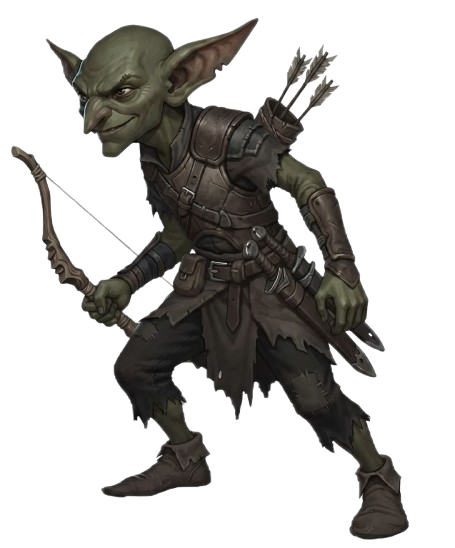
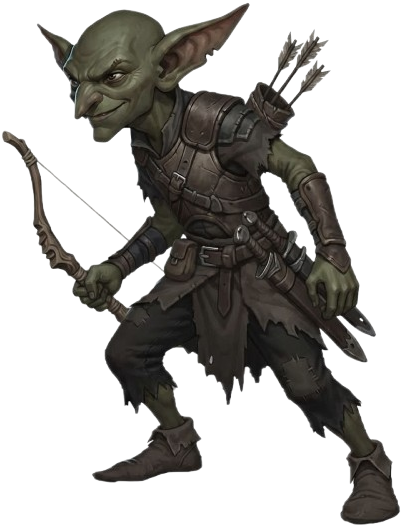
vampire-rpg: audit character sizes, sync feet to one ground line, walk-up now physically steps forward
Sizing audit:
- Fixed the real root cause of enemies floating above the player's own
  ground line: .enemy-cluster anchored its child via a flex margin
  percentage, which CSS always resolves against the containing block's
  WIDTH even for margin-bottom - so the enemy's feet sat at 32% of the
  (much wider) cluster width above the floor, not 8% of the stage's
  height like the player. The two only coincidentally lined up at one
  aspect ratio. Now both use the same bottom:8% basis.
- Cropped real transparent padding out of goblin-archer.png (17px top/
  8px bottom), goblin-sneak.png (21px/21px), and goblin-warrior.png
  (10px/10px) - all three were silently rendering smaller than their
  stated height and floating their feet above the ground line.
- Re-audited every character's true rendered height via a pixel-alpha
  content-bounding-box scan (not eyeballed) against the player's own
  ~42.3cqh true height: Skeleton/Zombie brought up toward human/Vampire
  scale, Hobgoblin Warrior/Archer set as bulkier-than-base-goblin tier,
  Goblin Sneak brought down to the smallest goblin-humanoid tier.
- Removed the now-fully-dead [data-count="2"/"3"] enemy-cluster CSS
  (52 lines) - encounters are always 1 enemy now, so those selectors
  could never match.

Walk-up flourish now physically steps forward, not just cycling art in
place - and self-heals across render()'s full DOM rebuilds by writing
an inline transform on a freshly re-queried element every single
[…]

Changed region(s): [[0.0, 0.0, 1.0, 1.0]]

diff --git a/prototypes/vampire-rpg/style.css b/prototypes/vampire-rpg/style.css
@@ -476,74 +476,54 @@ button { font-family: inherit; }
     align-items: center;
     transition: filter 200ms ease, opacity 400ms ease;
 }
-.combatant.player { left: 15%; }
+.combatant.player {
+    left: 15%;
+    /* The melee walk-up flourish's forward-and-back step (see
+       animatePlayerStep in game.js) writes a plain inline
+       transform:translateX(...cqw) directly, re-resolved every
+       requestAnimationFrame tick rather than as a CSS class+transition
+       - render() fully tears down and rebuilds this element on any
+       state change, which broke a CSS transition two different ways
+       (reported live as "teleporting"): no "before" frame to animate
+       from if the element was rebuilt right as the transition started,
+       and an abandoned in-flight transition if it was rebuilt again
+       mid-animation. A per-frame JS write just re-applies wherever the
+       animation currently is to whatever element exists that frame, so
+       neither case can desync it. Nothing is ever left shifted between
+       turns either way - every attack starts and ends at this same
+       left:15% spot (see animatePlayerStep's own comment). */
+}
 
+/* Single enemy slot for now (1-on-1 combat, per feedback) - right-aligned
+   in its own column, anchored at the SAME bottom offset (8%) as
+   .combatant.player above, resolved against the same .stage height in
+   both cases, so feet land on the same ground line regardless of the
+   stage's own aspect ratio. The previous version instead anchored the
+   enemy via a flex child's own margin-bottom% - CSS always resolves a
+   margin percentage against the containing block's WIDTH, even for
+   margin-bottom, so that put the enemy's feet at 32% of the (much wider)
+   cluster width above the floor rather than 8% of the stage's height
+   like the player - the two only coincidentally lined up at one
+   specific aspect ratio, and visibly diverged (reported live - a
+   screenshot showed the enemy floating well above the player's own
+   ground line) at the session's actual widescreen aspect ratio. */
 .enemy-cluster {
     position: absolute;
     right: 11%;
-    bottom: 0;
+    bottom: 8%;
     display: flex;
     align-items: flex-end;
     justify-content: flex-end;
-    gap: 2%;
-    height: 100%;
     width: 46%;
 }
-.enemy-cluster .combatant {
-    position: relative;
-    bottom: auto;
-    left: auto;
-    margin-bottom: 32%;
-}
-.enemy-cluster[data-count="1"] .combatant { margin-bottom: 32%; }
-/* Cluster shrink is expressed as height (not transform: scale), because the
-   idle-bob animation below also animates `transform` on .figure - a CSS
-   animation always wins over a plain declaration for the same property
-   regardless of selector specificity, so a static transform:scale() here
-   would simply be ignored once idle-bob is running. Height composes fine
-   with an animated transform sitting on top of it. */
-.enemy-cluster[data-count="2"] .combatant:nth-child(1) { margin-bottom: 32%; }
-.enemy-cluster[data-count="2"] .combatant:nth-child(2) { margin-bottom: 34%; }
-.enemy-cluster[data-count="3"] .combatant:nth-child(1) { margin-bottom: 32%; }
-.enemy-cluster[data-count="3"] .combatant:nth-child(2) { margin-bottom: 30%; }
-.enemy-cluster[data-count="3"] .combatant:nth-child(3) { margin-bottom: 30%; }
+.enemy-cluster .combatant { position: relative; left: auto; }
 .enemy-cluster .combatant .figure { transform-origin: 50% 100%; }
-.enemy-cluster[data-count="2"] .combatant .figure.char-skeleton { height: 38.5cqh; }
-/* At this height the Skeleton (tallest figure in the roster) renders wide
-   enough that, centered in its column, it overlaps the player Vampire on
-   its left (confirmed via getBoundingClientRect - a real overlap, not
-   "standing close" as elsewhere in this file). margin-left has no effect
-   here since the combatant column is exactly shrink-wrapped around the
-   figure with no centering slack to eat into, and a plain transform on
-   the figure itself would be silently overridden by its own idle-bob
-   keyframe animation (same reasoning as the cluster-shrink note above) -
-   so the nudge goes on the combatant wrapper instead, which has neither
-   issue. Only needed in the 2-enemy cluster (its only 3-enemy encounter
-   already has ~36-38px of clearance on both sides with no fix). */
-.enemy-cluster[data-count="2"] .combatant:has(.char-skeleton) { transform: translateX(7cqw); }
-.enemy-cluster[data-count="2"] .combatant .figure.char-goblin-grunt { height: 20.6cqh; }
-.enemy-cluster[data-count="2"] .combatant .figure.char-giant-rat { height: 12.9cqh; }
-.enemy-cluster[data-count="3"] .combatant .figure.char-skeleton { height: 32.3cqh; }
-.enemy-cluster[data-count="3"] .combatant .figure.char-goblin-grunt { height: 17.3cqh; }
-.enemy-cluster[data-count="3"] .combatant .figure.char-giant-rat { height: 10.8cqh; }
 /* Skeleton's defeated pose is a collapsed, wide illustration (aspect ratio
    ~2.05, vs ~0.87 standing) - shown at the standing height it would render
-   about 2.3x wider than upright and overlap its neighbors, so it gets a
-   shorter height here (same ratio applied to each context above) to keep
-   roughly the same on-screen footprint instead. */
-.combatant.dead.has-defeated-pose .figure.char-skeleton { height: 18.9cqh; }
-.enemy-cluster[data-count="2"] .combatant.dead.has-defeated-pose .figure.char-skeleton { height: 16.2cqh; }
-.enemy-cluster[data-count="3"] .combatant.dead.has-defeated-pose .figure.char-skeleton { height: 13.6cqh; }
-.enemy-cluster[data-count="2"] .combatant .figure.char-hobgoblin-warrior { height: 25.8cqh; }
-.enemy-cluster[data-count="2"] .combatant .figure.char-zombie { height: 27.5cqh; }
-.enemy-cluster[data-count="2"] .combatant .figure.char-hobgoblin-archer { height: 24.1cqh; }
-.enemy-cluster[data-count="2"] .combatant .figure.char-goblin-shaman { height: 19.8cqh; }
-.enemy-cluster[data-count="2"] .combatant .figure.char-goblin-sneak { height: 18.9cqh; }
-.enemy-cluster[data-count="3"] .combatant .figure.char-hobgoblin-warrior { height: 21.6cqh; }
-.enemy-cluster[data-count="3"] .combatant .figure.char-zombie { height: 23cqh; }
-.enemy-cluster[data-count="3"] .combatant .figure.char-hobgoblin-archer { height: 20.2cqh; }
-.enemy-cluster[data-count="3"] .combatant .figure.char-goblin-shaman { height: 16.6cqh; }
-.enemy-cluster[data-count="3"] .combatant .figure.char-goblin-sneak { height: 15.8cqh; }
+   about 2.3x wider than upright, so it gets a shorter height here (same
+   ratio as standing-to-defeated below) to keep roughly the same on-screen
+   footprint instead. */
+.combatant.dead.has-defeated-pose .figure.char-skeleton { height: 17.3cqh; }
 
 .combatant.dead { opacity: 0.32; filter: grayscale(0.9) brightness(0.7); }
 /* A dedicated defeated-pose illustration already tells "this is dead" on
@@ -691,15 +671,31 @@ button { font-family: inherit; }
    pulling them up off the ground. */
 .figure-scale { display: flex; align-items: flex-end; justify-content: center; }
 .combatant.player .figure-scale { transform: scale(0.92); transform-origin: bottom center; }
-/* Relative in-world scale between characters - tallest to shortest. */
-.figure.char-skeleton { height: 44.9cqh; }
+/* Relative in-world scale between characters - tallest to shortest.
+   Re-audited together with the player's own true rendered height (the
+   base .figure rule below is 46cqh, scaled by .figure-scale's 0.92 above
+   -> ~42.3cqh true) via a pixel-alpha content-bounding-box scan of each
+   character's actual art (same technique as VAMPIRE_POSE_HEIGHT's own
+   comments in game.js), not eyeballed - most of these images are
+   cropped edge-to-edge already so their cqh value IS their true height,
+   but goblin-archer/goblin-sneak/goblin-warrior carried real transparent
+   padding (measured 3-6% of canvas height on top and bottom) that was
+   silently shrinking them below their stated height and floating their
+   feet above the ground line - cropped out at the source instead of
+   compensated here (see assets/*.png), so all eight numbers below are
+   now directly comparable "true" heights. Skeleton and Zombie are
+   human-sized undead, so sit close to the Vampire's own ~42.3cqh;
+   Hobgoblin Warrior/Archer are bulkier elite goblins, taller than the
+   base Goblin Grunt tier; Goblin Shaman/Sneak sit at or under Grunt;
+   Giant Rat is the smallest, a low quadruped. */
+.figure.char-skeleton { height: 41cqh; }
+.figure.char-zombie { height: 39cqh; }
+.figure.char-hobgoblin-warrior { height: 31cqh; }
+.figure.char-hobgoblin-archer { height: 27cqh; }
 .figure.char-goblin-grunt { height: 24cqh; }
-.figure.char-giant-rat { height: 15cqh; }
-.figure.char-hobgoblin-warrior { height: 30cqh; }
-.figure.char-zombie { height: 32cqh; }
-.figure.char-hobgoblin-archer { height: 28cqh; }
 .figure.char-goblin-shaman { height: 23cqh; }
-.figure.char-goblin-sneak { height: 22cqh; }
+.figure.char-goblin-sneak { height: 20cqh; }
+.figure.char-giant-rat { height: 15cqh; }
 
 /* The whole roster has real art now - Goblin Sneak and Goblin Warrior
    (characterId 'hobgoblin-warrior') were the last two tinted

diff --git a/prototypes/vampire-rpg/game.js b/prototypes/vampire-rpg/game.js
@@ -324,12 +324,18 @@
         'skeleton': 'assets/skeleton.png',
         'giant-rat': 'assets/giant-rat.png',
         'zombie': 'assets/zombie.png',
-        'hobgoblin-archer': 'assets/goblin-archer.png',
+        // ?v=2 on these three specifically - their source PNGs got
+        // cropped in place (real transparent padding removed, see the
+        // sizing-audit comment on .figure.char-* in style.css) without a
+        // filename change, so a browser that already cached the old
+        // (padded) bytes under this same path needs a new query string
+        // to actually re-fetch.
+        'hobgoblin-archer': 'assets/goblin-archer.png?v=2',
         'goblin-shaman': 'assets/goblin-shaman.png',
-        'goblin-sneak': 'assets/goblin-sneak.png',
+        'goblin-sneak': 'assets/goblin-sneak.png?v=2',
         // Display name "Goblin Warrior" (see characters.source.js) - a
         // goblin in heavy armor, not a distinct hobgoblin species.
-        'hobgoblin-warrior': 'assets/goblin-warrior.png',
+        'hobgoblin-warrior': 'assets/goblin-warrior.png?v=2',
     };
     // Attack/hit/defeated pose sets, for every enemy - the whole roster now
     // has real art, no placeholders left. Mirrors VAMPIRE_POSES/
@@ -366,7 +372,7 @@
             defeated: 'assets/zombie-defeated.png',
         },
         'hobgoblin-archer': {
-            idle: 'assets/goblin-archer.png',
+            idle: 'assets/goblin-archer.png?v=2',
             attack: ['assets/goblin-archer-attack-1.png', 'assets/goblin-archer-attack-2.png'],
             hit: 'assets/goblin-archer-hit.png',
             defeated: 'assets/goblin-archer-defeated.png',
@@ -385,7 +391,7 @@
             defeated: 'assets/goblin-shaman-defeated.png',
         },
         'goblin-sneak': {
-            idle: 'assets/goblin-sneak.png',
+            idle: 'assets/goblin-sneak.png?v=2',
             attack: 'assets/goblin-sneak-attack.png',
             // Slip Away (self-target) gets its own "vanish into shadow"
             // pose instead of the attack lunge - see chooseEnemyAction.
@@ -394,7 +400,7 @@
             defeated: 'assets/goblin-sneak-defeated.png',
         },
         'hobgoblin-warrior': {
-            idle: 'assets/goblin-warrior.png',
+            idle: 'assets/goblin-warrior.png?v=2',
             attack: ['assets/goblin-warrior-attack-1.png', 'assets/goblin-warrior-attack-2.png'],
             hit: 'assets/goblin-warrior-hit.png',
             defeated: 'assets/goblin-warrior-defeated.png',
@@ -995,6 +1001,45 @@
         return totalMs;
     }
 
+    // Animates the player's .combatant stepping forward (toward the
+    // enemy) or back (returning to its base spot) for the melee walk-up
+    // flourish below, by interpolating an inline transform directly via
+    // requestAnimationFrame - re-resolving the element fresh on EVERY
+    // frame instead of holding one reference for the whole animation.
+    // render() fully tears down and rebuilds the combatant DOM on any
+    // state change (see its own comments); a plain CSS class+transition
+    // toggled once and left to run doesn't survive that. Two ways it
+    // broke, both reported live: render() firing between the class being
+    // added and the next paint hands the transition a brand new element
+    // with no "before" frame to animate from, so it jumps straight to
+    // the end position instead of visibly walking there ("teleporting
+    // forward then walking instead of walking from its original spot");
+    // render() firing again mid-transition abandons whatever the CSS
+    // engine had in flight, snapping to whatever the fresh element's
+    // static (untransitioned) style happens to resolve to. Re-querying
+    // the element every single frame sidesteps both - if render() swaps
+    // it out between two frames, the very next frame just keeps writing
+    // the current interpolated position onto the new element, not
+    // whatever that element's own default style would have been.
+    function animatePlayerStep(forward, durationMs, onDone) {
+        const startCqw = forward ? 0 : 20;
+        const endCqw = forward ? 20 : 0;
+        const startTime = performance.now();
+        function tick(now) {
+            const el = findCombatantEl('player', 0);
+            const t = Math.min(1, (now - startTime) / durationMs);
+            const eased = t < 0.5 ? 4 * t * t * t : 1 - Math.pow(-2 * t + 2, 3) / 2; // easeInOutCubic
+            const cqw = startCqw + (endCqw - startCqw) * eased;
+            if (el) el.style.transform = cqw ? 'translateX(' + cqw.toFixed(2) + 'cqw)' : '';
+            if (t < 1) {
+                requestAnimationFrame(tick);
+            } else if (onDone) {
+                onDone();
+            }
+        }
+        requestAnimationFrame(tick);
+    }
+
     function playPlayerAction(skillIndex, targetSlot) {
         const unit = vampireUnit();
         const character = characterForUnit(unit);
@@ -1036,14 +1081,30 @@
             // cosmetic (no range gate any more, every skill can already
             // hit any alive enemy), just sells "closing the gap" for a
             // Melee-tagged hit specifically. Ranged/self skills skip
-            // straight to their own windup below.
+            // straight to their own windup below. The player's own
+            // .combatant physically steps forward while this plays (see
+            // animatePlayerStep above) and steps back again once the
+            // strike lands - a temporary, timer-driven, self-resetting
+            // transform, not the old persistent --engage-x position
+            // (removed per feedback) - nothing is ever left shifted
+            // between turns.
             const walkFrames = playerWalkFrames();
             const walkStepMs = walkFrames.length > 3 ? 200 : 260;
-            const walkTotalMs = playVampirePoseSequence(walkFrames, [], { stepMs: walkStepMs, holdMs: 300 });
+            // Mirrors playVampirePoseSequence's own totalMs formula
+            // below (frames.length ? (frames.length-1)*stepMs+holdMs :
+            // holdMs) - needed here, ahead of that call, so the walk and
+            // the physical step start together and take the same total
+            // time. Keep the two in sync if either formula ever changes.
+            const walkTotalMs = walkFrames.length ? (walkFrames.length - 1) * walkStepMs + 300 : 300;
+            animatePlayerStep(true, walkTotalMs);
+            playVampirePoseSequence(walkFrames, [], { stepMs: walkStepMs, holdMs: 300 });
             setTimeout(() => {
                 setVampireImage('windup');
                 setTimeout(() => {
-                    playVampirePoseSequence(frames, diffs, { stepMs: 260, holdMs: 550 });
+                    const attackTotalMs = playVampirePoseSequence(frames, diffs, { stepMs: 260, holdMs: 550 });
+                    setTimeout(() => {
+                        animatePlayerStep(false, 450);
+                    }, attackTotalMs);
                 }, 260);
             }, walkTotalMs);
             enemyTurnDelay = walkTotalMs + 1450;

diff --git a/prototypes/vampire-rpg/index.html b/prototypes/vampire-rpg/index.html
@@ -6,7 +6,7 @@
 <title>Vampire RPG Prototype</title>
 <link rel="preconnect" href="https://fonts.googleapis.com">
 <link rel="stylesheet" href="https://fonts.googleapis.com/css2?family=Pirata+One&family=Cinzel:wght@400;600;700;900&family=EB+Garamond:ital,wght@0,400;0,600;1,500&display=swap">
-<link rel="stylesheet" href="style.css?v=46" />
+<link rel="stylesheet" href="style.css?v=49" />
 </head>
 <body>
 <div id="app"></div>
@@ -18,6 +18,6 @@
 <script src="engine/battleEngine.js?v=1"></script>
 <!-- New, prototype-only orchestration + UI -->
 <script src="engine/progression.js?v=11"></script>
-<script src="game.js?v=61"></script>
+<script src="game.js?v=64"></script>
 </body>
 </html>
